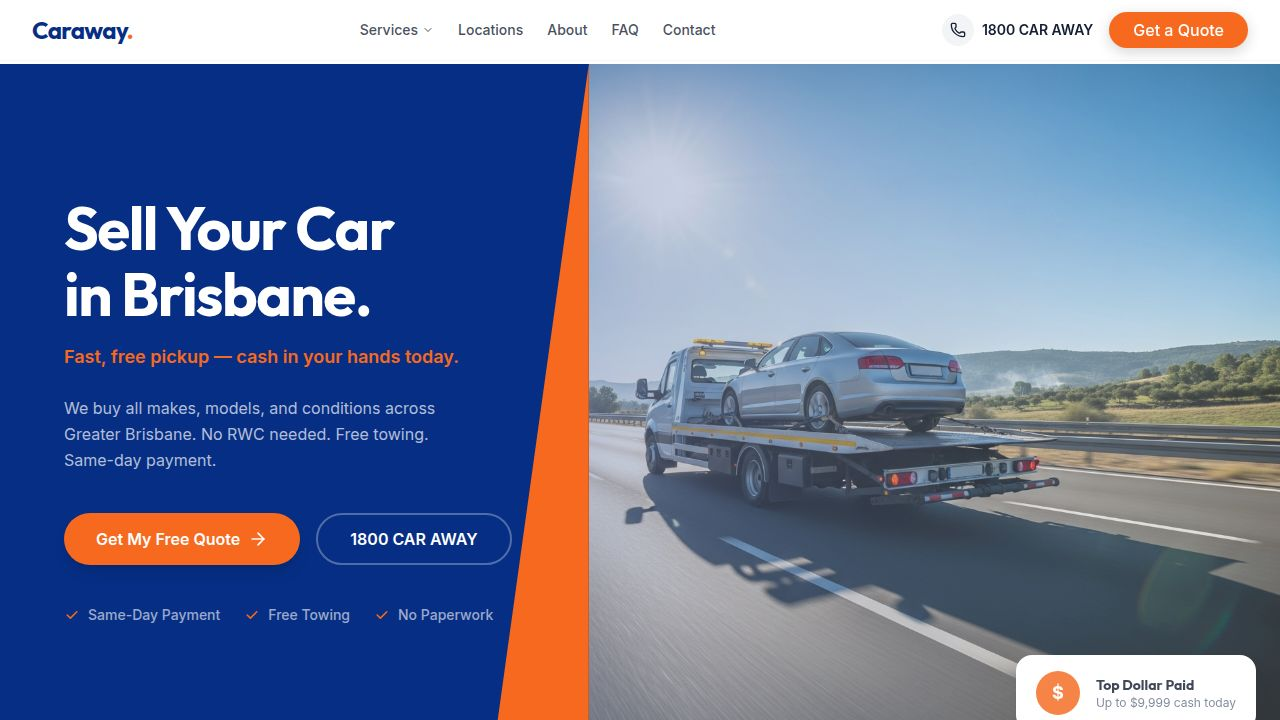
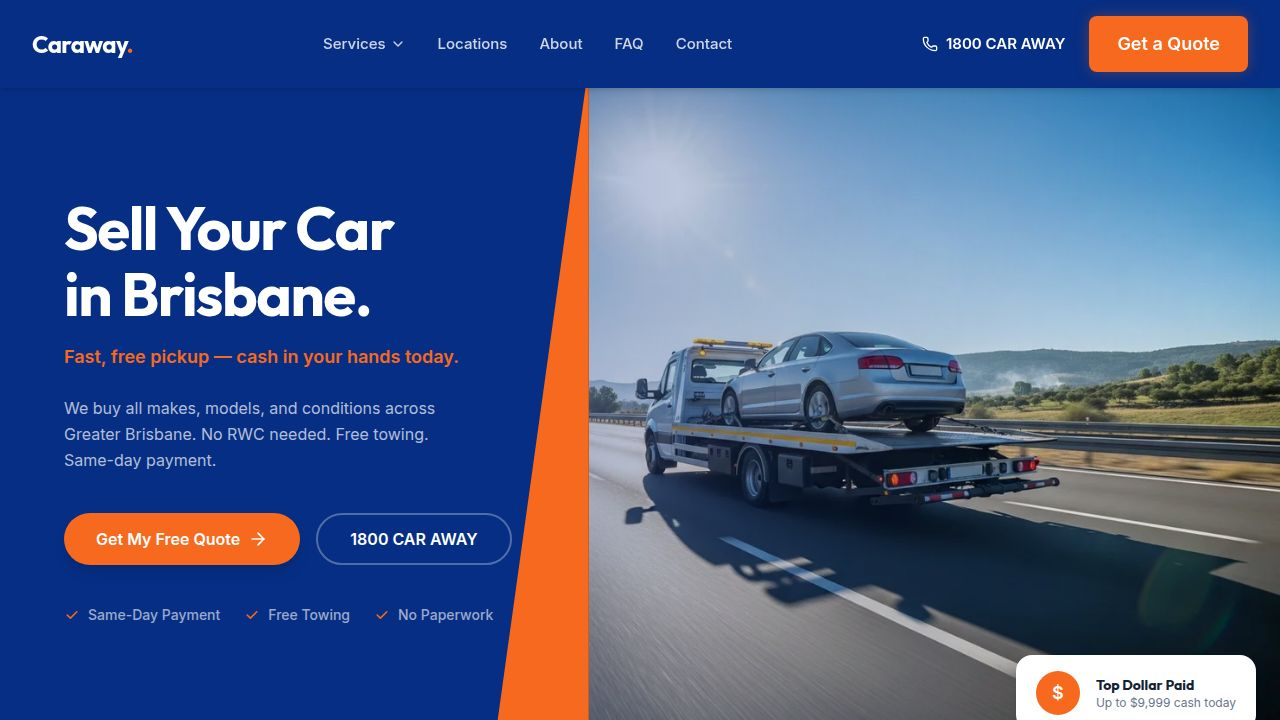
Update website header to a bold navy navigation style
Refactors Header.tsx to implement the "Bold Navy Nav" design, updating background colors, text colors, link styles, and dropdown menu appearance to align with the new design specifications.

Replit-Commit-Author: Agent
Replit-Commit-Session-Id: a32d0eae-2ab4-40f8-8c87-4bc9184e6b37
Replit-Commit-Checkpoint-Type: full_checkpoint
Replit-Commit-Event-Id: 2c96c4b1-556f-4a14-9295-4d8b437dd3eb
Replit-Commit-Screenshot-Url: https://storage.googleapis.com/screenshot-production-us-central1/fed2ee75-450e-4832-b7e5-0babc737682c/a32d0eae-2ab4-40f8-8c87-4bc9184e6b37/SqqAKlL
Replit-Helium-Checkpoint-Created: true

diff --git a/artifacts/caraway/src/components/layout/Header.tsx b/artifacts/caraway/src/components/layout/Header.tsx
@@ -49,40 +49,43 @@ export function Header() {
     <>
       <header
         className={cn(
-          "fixed top-0 left-0 right-0 z-50 transition-all duration-300 ease-out border-b bg-white py-3",
-          isScrolled ? "border-border/60 shadow-sm" : "border-border/30"
+          "fixed top-0 left-0 right-0 z-50 bg-primary py-4 transition-shadow duration-300",
+          isScrolled ? "shadow-lg" : "shadow-md"
         )}
       >
         <div className="max-w-7xl mx-auto px-4 sm:px-6 lg:px-8 flex items-center justify-between">
           <Link href="/" className="flex items-center gap-2 group">
-            <span className="font-display font-bold text-2xl tracking-tight text-primary">
+            <span className="font-display font-bold text-2xl tracking-tight text-white">
               Caraway<span className="text-accent">.</span>
             </span>
           </Link>
 
-          <nav className="hidden lg:flex items-center gap-6">
+          <nav className="hidden lg:flex items-center gap-8">
             {navLinks.map((link) => (
               <div
                 key={link.label}
-                className="relative"
+                className="relative py-2"
                 onMouseEnter={() => link.hasDropdown && setIsServicesOpen(true)}
                 onMouseLeave={() => link.hasDropdown && setIsServicesOpen(false)}
               >
                 <Link
                   href={link.href}
-                  className="text-sm font-medium text-foreground/80 hover:text-primary transition-colors flex items-center gap-1"
+                  className="text-[15px] font-medium text-white/80 hover:text-white transition-colors flex items-center gap-1 group relative"
                 >
                   {link.label}
-                  {link.hasDropdown && <ChevronDown className="h-3 w-3" />}
+                  {link.hasDropdown && (
+                    <ChevronDown className={cn("h-4 w-4 transition-transform duration-200", isServicesOpen ? "rotate-180" : "")} />
+                  )}
+                  <span className="absolute -bottom-2 left-0 w-full h-[2px] bg-accent scale-x-0 group-hover:scale-x-100 transition-transform origin-left duration-300" />
                 </Link>
 
                 {link.hasDropdown && isServicesOpen && (
-                  <div className="absolute top-full left-0 mt-1 w-56 bg-white rounded-xl shadow-lg border border-border/50 py-2 z-50">
+                  <div className="absolute top-full left-0 mt-4 w-64 bg-white rounded-lg shadow-xl border-t-2 border-t-accent py-2 z-50">
                     {serviceDropdown.map(item => (
                       <Link
                         key={item.href}
                         href={item.href}
-                        className="block px-4 py-2 text-sm text-foreground/80 hover:text-primary hover:bg-muted/50 transition-colors"
+                        className="block px-5 py-2.5 text-sm font-medium text-foreground hover:text-accent hover:bg-muted/50 transition-colors"
                       >
                         {item.label}
                       </Link>
@@ -93,23 +96,25 @@ export function Header() {
             ))}
           </nav>
 
-          <div className="hidden lg:flex items-center gap-4">
+          <div className="hidden lg:flex items-center gap-6">
             <a
               href="tel:1800227293"
-              className="flex items-center gap-2 text-sm font-semibold text-foreground hover:text-primary transition-colors group"
+              className="flex items-center gap-2 text-[15px] font-semibold text-white hover:text-accent transition-colors"
             >
-              <div className="h-8 w-8 rounded-full bg-muted flex items-center justify-center group-hover:bg-primary/10 transition-colors">
-                <Phone className="h-4 w-4" />
-              </div>
+              <Phone className="h-4 w-4" />
               1800 CAR AWAY
             </a>
-            <Button onClick={scrollToQuote} size="sm" className="rounded-full px-6 bg-accent hover:bg-accent/90 text-white border-0">
+            <Button
+              onClick={scrollToQuote}
+              size="lg"
+              className="rounded-lg px-7 bg-accent hover:bg-accent/90 text-white border-0 shadow-[0_0_15px_rgba(242,101,34,0.3)] hover:shadow-[0_0_20px_rgba(242,101,34,0.5)] transition-all font-semibold"
+            >
               Get a Quote
             </Button>
           </div>
 
           <button
-            className="lg:hidden p-2 text-foreground"
+            className="lg:hidden p-2 text-white hover:text-accent transition-colors"
             onClick={() => setIsMobileMenuOpen(true)}
           >
             <Menu className="h-6 w-6" />
@@ -118,57 +123,63 @@ export function Header() {
       </header>
 
       {isMobileMenuOpen && (
-          <div className="fixed inset-0 z-50 bg-background lg:hidden flex flex-col">
-
-            <div className="flex items-center justify-between p-4 border-b border-border/50">
-              <span className="font-display font-bold text-2xl text-primary">Caraway.</span>
-              <button onClick={() => setIsMobileMenuOpen(false)} className="p-2">
-                <X className="h-6 w-6" />
-              </button>
-            </div>
-
-            <div className="flex-1 flex flex-col p-6 gap-4 overflow-y-auto">
-              <nav className="flex flex-col gap-3">
-                {navLinks.map((link) => (
+        <div className="fixed inset-0 z-[100] bg-primary lg:hidden flex flex-col">
+          <div className="flex items-center justify-between p-4 border-b border-white/10">
+            <span className="font-display font-bold text-2xl tracking-tight text-white">
+              Caraway<span className="text-accent">.</span>
+            </span>
+            <button onClick={() => setIsMobileMenuOpen(false)} className="p-2 text-white hover:text-accent transition-colors">
+              <X className="h-6 w-6" />
+            </button>
+          </div>
+          <div className="flex-1 flex flex-col p-6 gap-6 overflow-y-auto">
+            <nav className="flex flex-col gap-4">
+              {navLinks.map((link) => (
+                <div key={link.label} className="flex flex-col">
                   <Link
-                    key={link.label}
                     href={link.href}
-                    onClick={() => setIsMobileMenuOpen(false)}
-                    className="text-xl font-display font-medium text-foreground border-b border-border/50 pb-3"
+                    onClick={() => !link.hasDropdown && setIsMobileMenuOpen(false)}
+                    className="text-xl font-display font-medium text-white/90 hover:text-white pb-3 border-b border-white/10 flex items-center justify-between"
                   >
                     {link.label}
+                    {link.hasDropdown && <ChevronDown className="h-5 w-5 text-white/50" />}
                   </Link>
-                ))}
-                <div className="pt-2 pb-3 border-b border-border/50">
-                  <p className="text-xs font-semibold text-muted-foreground uppercase tracking-wider mb-2">Popular Services</p>
-                  {serviceDropdown.map(item => (
-                    <Link
-                      key={item.href}
-                      href={item.href}
-                      onClick={() => setIsMobileMenuOpen(false)}
-                      className="block py-2 text-sm text-foreground/70 hover:text-primary"
-                    >
-                      {item.label}
-                    </Link>
-                  ))}
+                  {link.hasDropdown && (
+                    <div className="flex flex-col gap-2 mt-3 pl-4 border-l-2 border-white/10">
+                      {serviceDropdown.map(item => (
+                        <Link
+                          key={item.href}
+                          href={item.href}
+                          onClick={() => setIsMobileMenuOpen(false)}
+                          className="py-2 text-[15px] text-white/70 hover:text-white"
+                        >
+                          {item.label}
+                        </Link>
+                      ))}
+                    </div>
+                  )}
                 </div>
-              </nav>
-
-              <div className="mt-auto flex flex-col gap-4">
-                <a
-                  href="tel:1800227293"
-                  className="flex items-center justify-center gap-2 h-14 rounded-xl border-2 border-primary text-primary font-semibold text-lg"
-                >
-                  <Phone className="h-5 w-5" />
-                  1800 227 293
-                </a>
-                <Button onClick={scrollToQuote} size="lg" className="w-full bg-accent hover:bg-accent/90 text-white border-0">
-                  Get My Free Quote
-                </Button>
-              </div>
+              ))}
+            </nav>
+            <div className="mt-auto flex flex-col gap-4 pt-6">
+              <a
+                href="tel:1800227293"
+                className="flex items-center justify-center gap-2 h-14 rounded-lg bg-white/5 text-white font-semibold text-lg hover:bg-white/10 transition-colors"
+              >
+                <Phone className="h-5 w-5 text-accent" />
+                1800 227 293
+              </a>
+              <Button
+                onClick={scrollToQuote}
+                size="lg"
+                className="w-full h-14 rounded-lg bg-accent hover:bg-accent/90 text-white border-0 font-bold text-lg shadow-[0_4px_14px_rgba(242,101,34,0.3)]"
+              >
+                Get My Free Quote
+              </Button>
             </div>
           </div>
-        )}
+        </div>
+      )}
     </>
   );
 }
